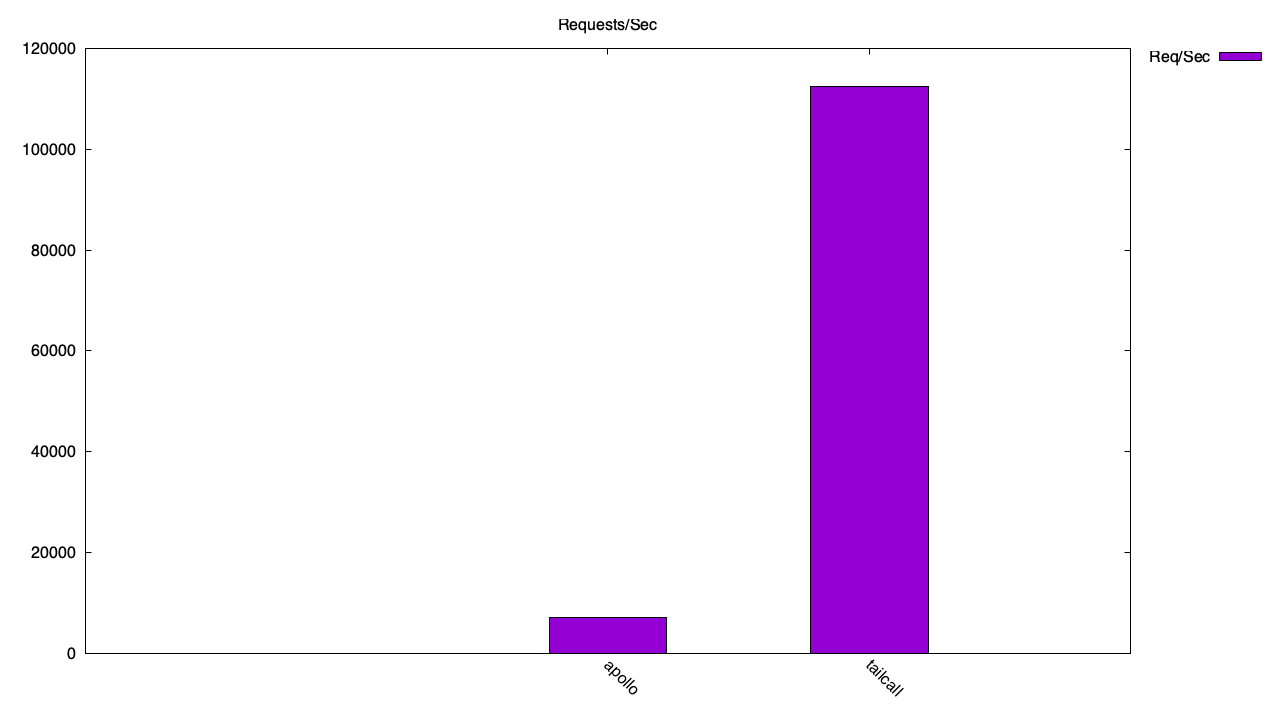
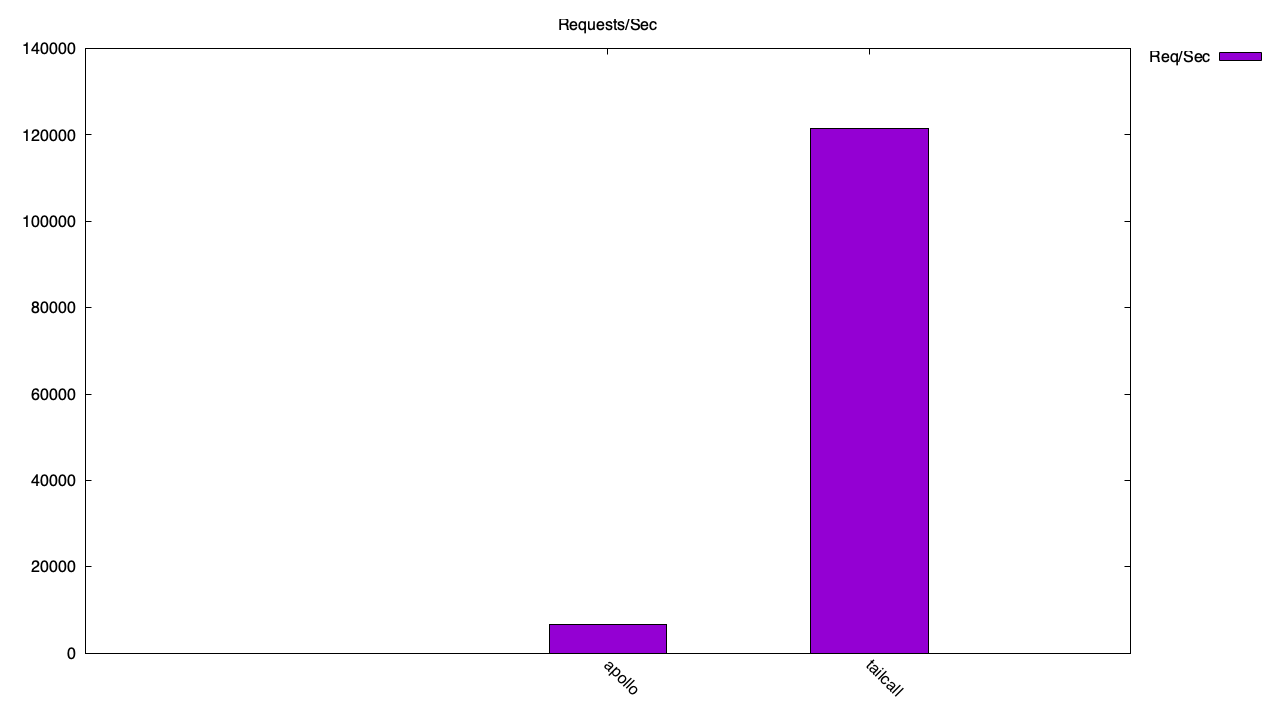
Updated performance results in README.md

diff --git a/README.md b/README.md
@@ -44,8 +44,8 @@ Get started with the benchmarks:
 <!-- PERFORMANCE_RESULTS_START -->
 | Server | Requests/sec | Latency (ms) |
 |--------|--------------|--------------|
-| apollo | 7035.942102917875 | 14.21787901160235 |
-| tailcall | 112556.64979546318 | 0.8808227626467039 |
+| apollo | 6543.885258627874 | 15.464760673819313 |
+| tailcall | 121400.78711951857 | 0.8161994372989355 |
 <!-- PERFORMANCE_RESULTS_END -->
 
 ### Throughput (Higher is better)
